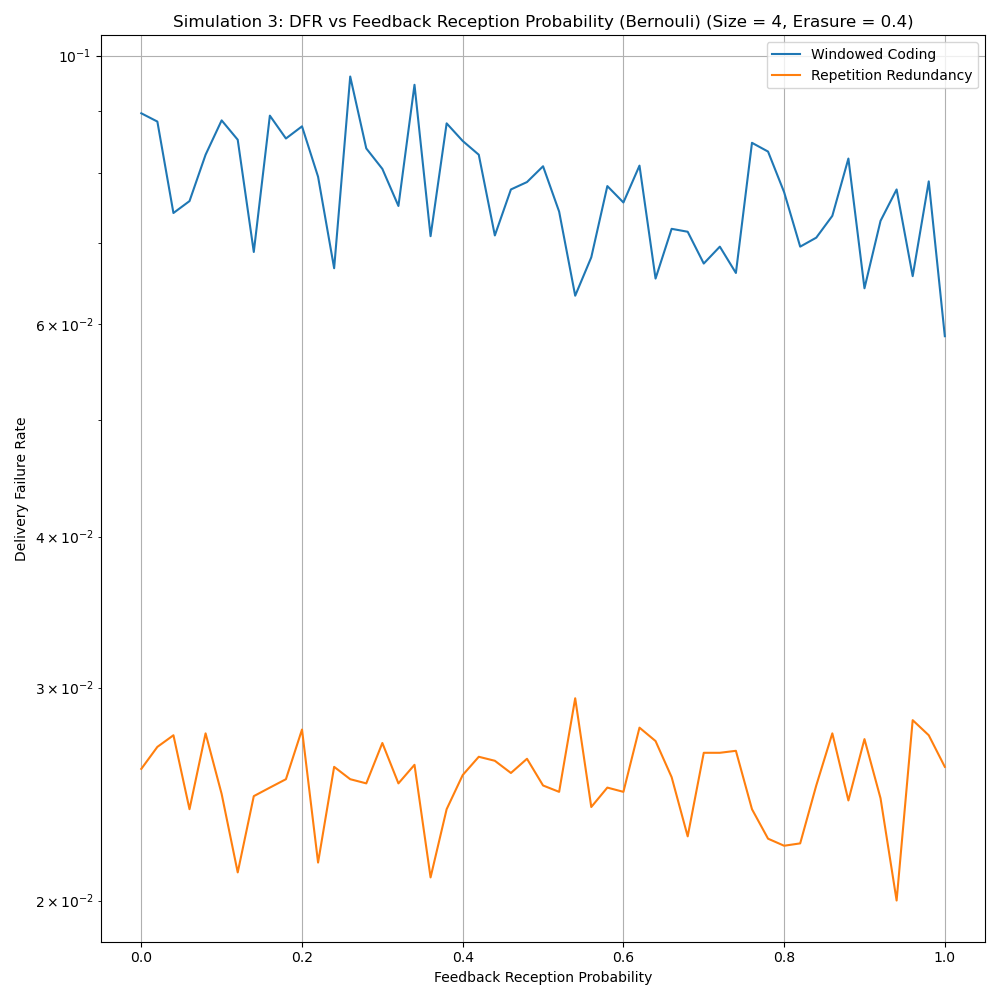
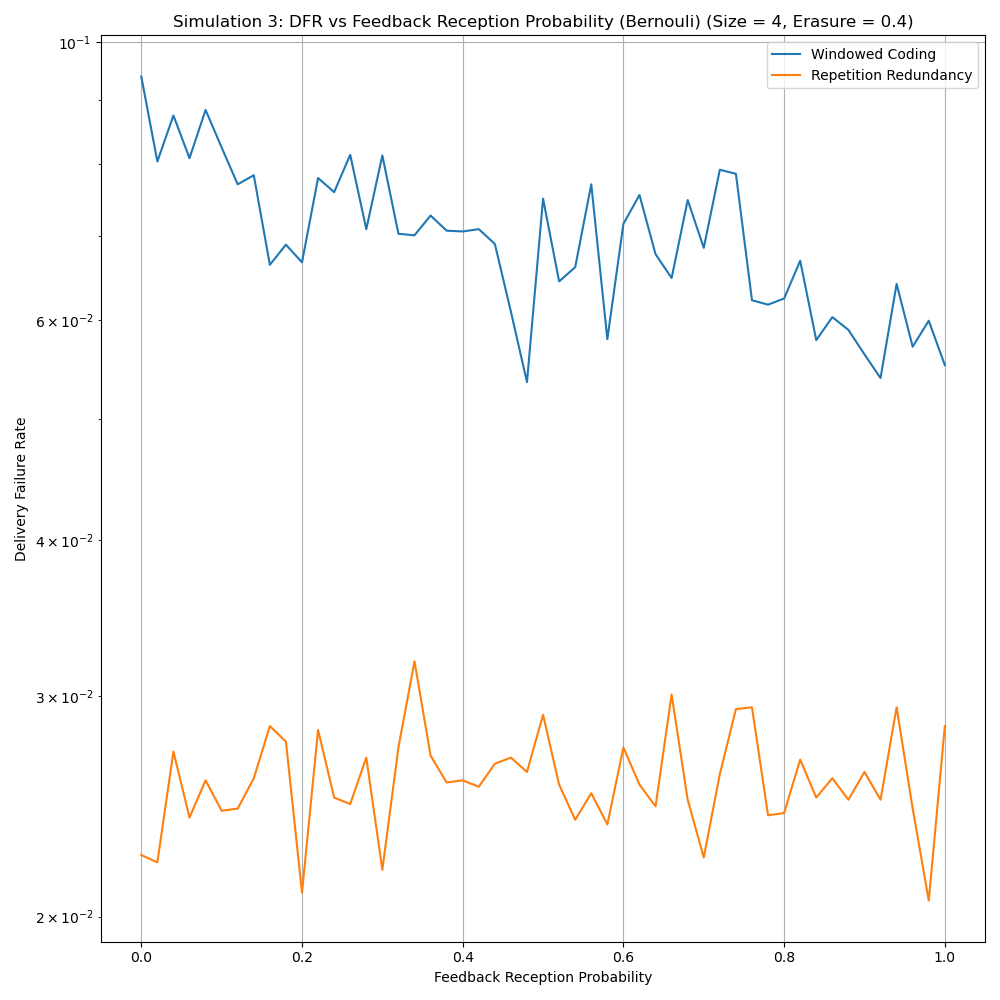
simulation fixes

diff --git a/simulation.py b/simulation.py
@@ -17,6 +17,7 @@ def run_simulations(simulation='all'):
     number = 10000
     delay_tolerance = 16
     feedback_interval = 1
+    baseline = 'repetition'
 
     if simulation == 'all':
         for i in range(1, num+1):
@@ -65,7 +66,7 @@ def run_simulations(simulation='all'):
                 channel_erasure_model = 'Bernouli',
                 Pbg = erasure_prob,
                 erasure_prob_feedback = 0.75,
-                scheme='repetition'
+                scheme=baseline
             ))
 
         plt.figure(figsize=(10,10))
@@ -125,7 +126,7 @@ def run_simulations(simulation='all'):
                 channel_erasure_model = 'Bernouli',
                 Pbg = erasure_prob,
                 erasure_prob_feedback = 0.25,
-                scheme='repetition'
+                scheme=baseline
             ))
 
         plt.figure(figsize=(10,10))
@@ -187,7 +188,7 @@ def run_simulations(simulation='all'):
                 channel_erasure_model = 'Bernouli',
                 Pbg = 0.4,
                 erasure_prob_feedback = erasure_prob,
-                scheme='repetition'
+                scheme=baseline
             ))
 
         plt.figure(figsize=(10,10))
@@ -246,7 +247,7 @@ def run_simulations(simulation='all'):
                 Pbg = erasure_prob,
                 Pgb = 0.2,
                 erasure_prob_feedback = 0.7,
-                scheme='repetition'
+                scheme=baseline
             ))
 
         plt.figure(figsize=(10,10))
@@ -307,7 +308,7 @@ def run_simulations(simulation='all'):
                 Pbg = 0.6,
                 Pgb = 0.3,
                 erasure_prob_feedback = 0.5,
-                scheme='repetition'
+                scheme=baseline
             ))
 
         plt.figure(figsize=(10,10))
@@ -317,6 +318,7 @@ def run_simulations(simulation='all'):
         plt.xlabel('Delay Tolerance')
         plt.ylabel('Delivery Failure Rate')
         plt.yscale('log')
+        plt.ylim(0.00001, 1)
         plt.grid()
         plt.tight_layout()
         plt.legend(loc='upper right')

diff --git a/system.py b/system.py
@@ -102,8 +102,8 @@ if __name__=="__main__":
     parser.add_argument('-c', '--channel', help='The channel erasure model', choices=['Bernouli', 'Gilbert-Elliot'], type=str, default='Bernouli')
     parser.add_argument('-s', '--size', help='Size of the packet', type=int, default=4)
     parser.add_argument('-d', '--delay_tolerance', help='Delay Tolerance', type=int, default=16)
-    parser.add_argument('--pbg', help='Channel Erasure Probability for Bernouli or Probability of good to bad transition in Gilbert Elliot', type=float, default=0.5)
-    parser.add_argument('--pgb', help='Probability of bad to good transition in Gilbert Elliot', type=float, default=0.4)
+    parser.add_argument('-pbg', '--pbg', help='Channel Erasure Probability for Bernouli or Probability of good to bad transition in Gilbert Elliot', type=float, default=0.5)
+    parser.add_argument('-pgb', '--pgb', help='Probability of bad to good transition in Gilbert Elliot', type=float, default=0.4)
     parser.add_argument('-f', '--feedback_erasure', help='Feedback erasure probability', type=float, default=0.4)
     parser.add_argument('-i', '--feedback_interval', help='The interval of sending feedback', type=int, default=1)
     parser.add_argument('--scheme', help='The coding scheme to use', choices=['ICC', 'repetition'], type=str, default='ICC')
